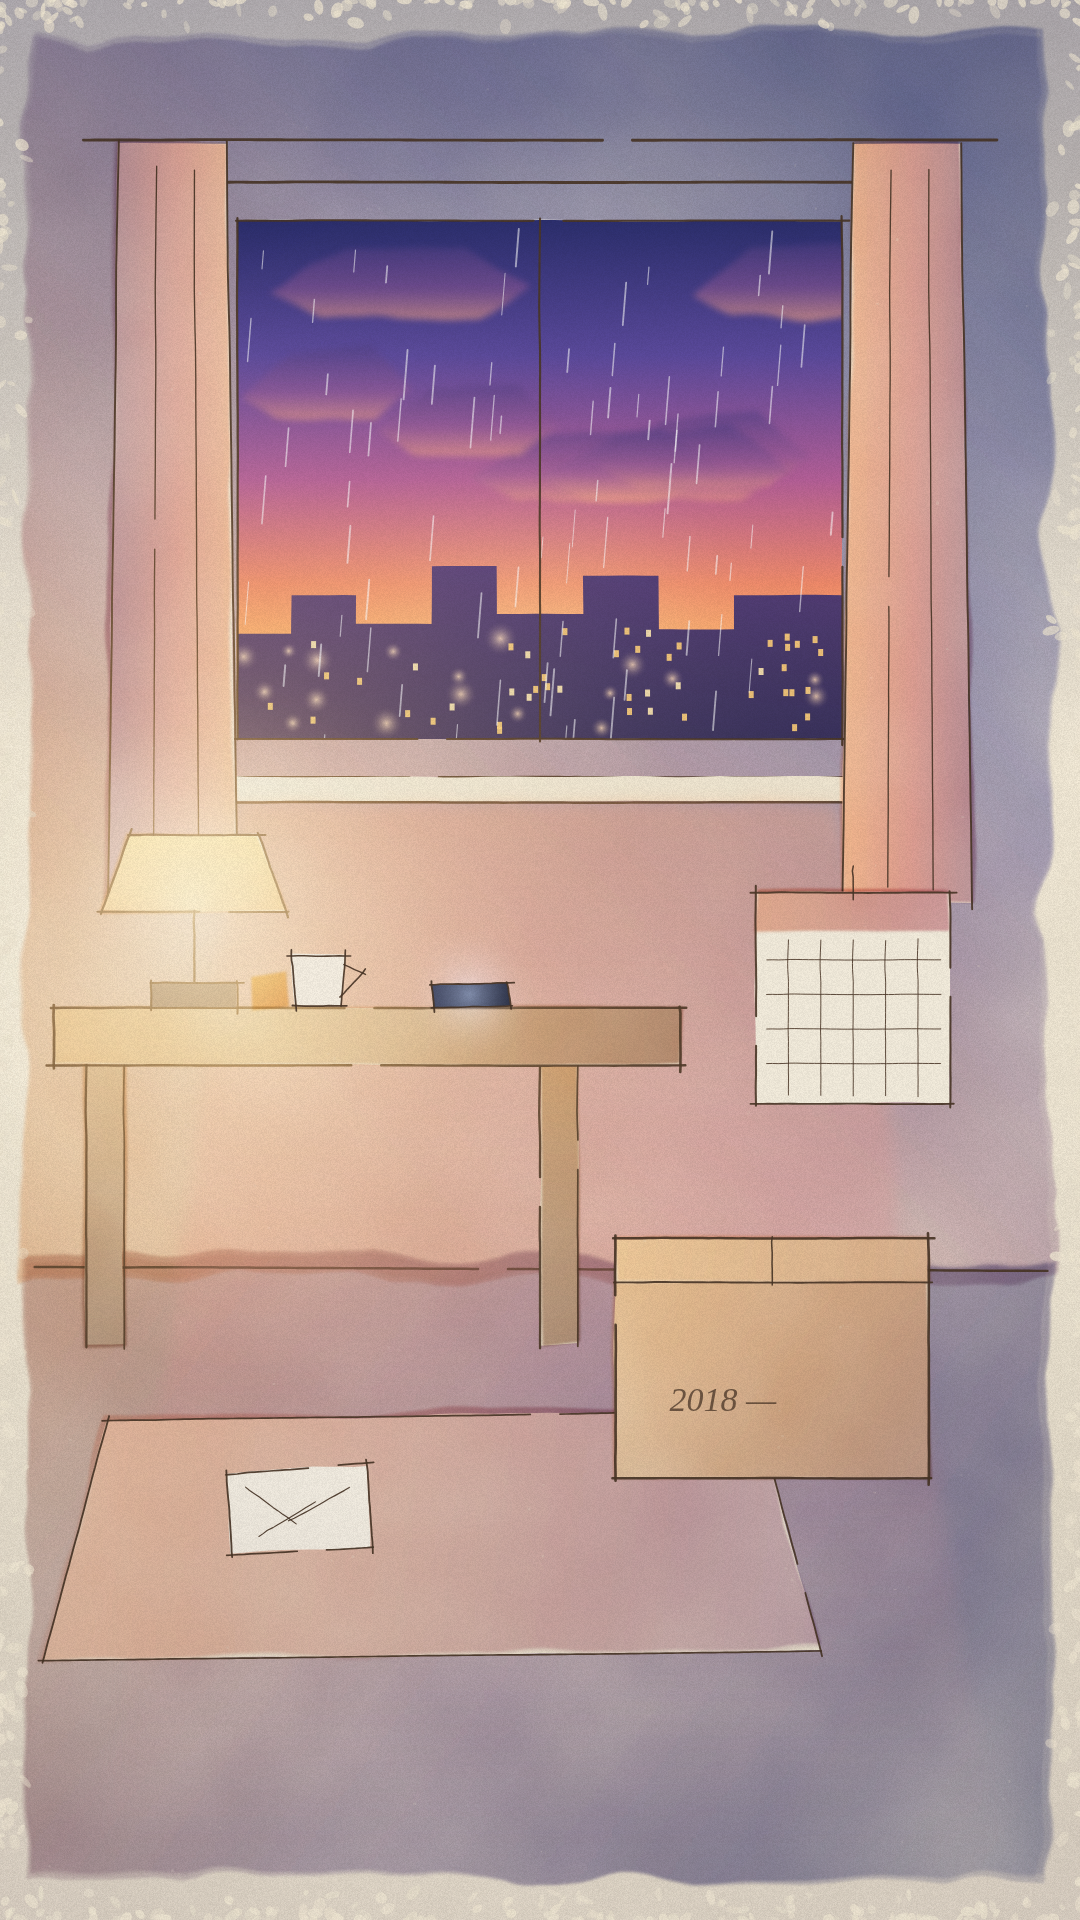
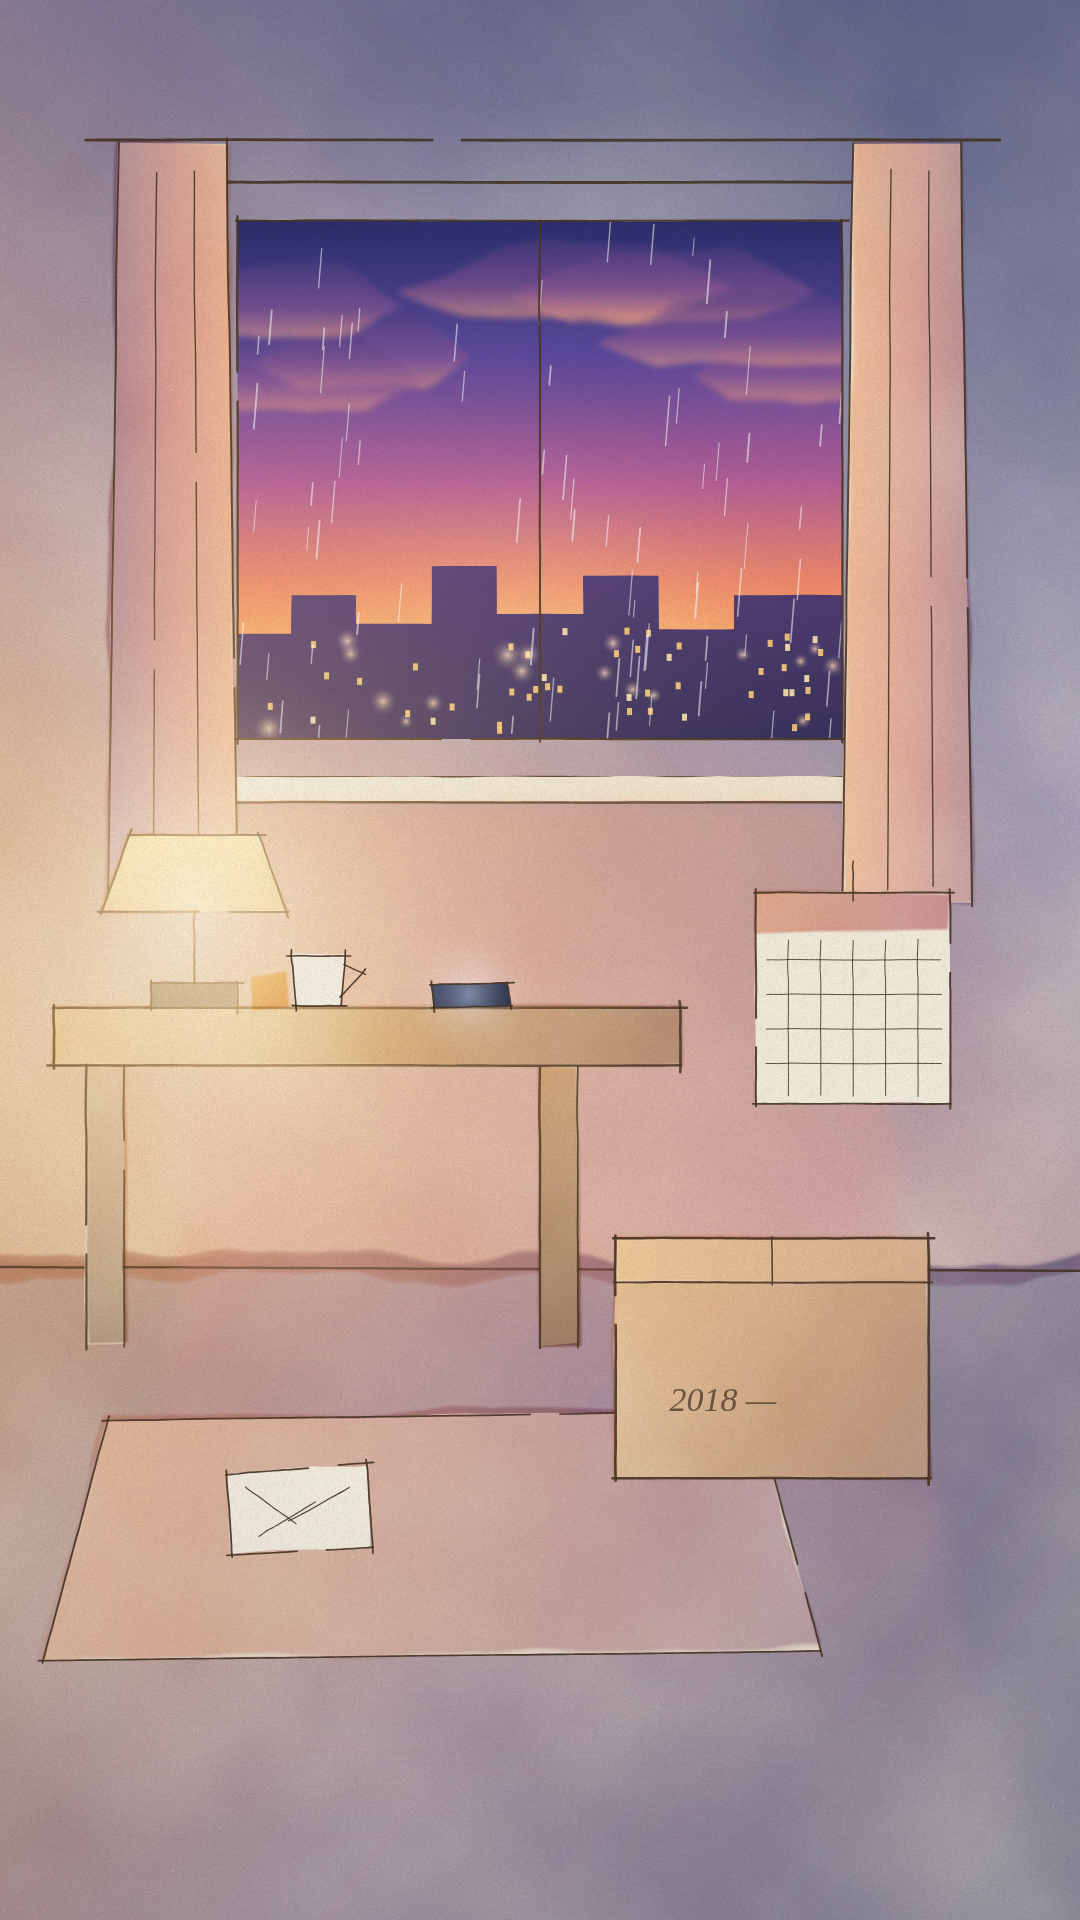
Full-bleed portrait paintings; draw the friends as slender girls
Washes now reach every edge of the 9:16 frame (no frayed paper border).
Yuri, Yunji and Hyejin are redrawn as slender college girls with small
oval faces, smiling eyes, blush, distinct hairstyles (long, bob,
ponytail) and pastel tops. Character notes added to ART_DIRECTION.md.

Claude-Session: https://claude.ai/code/session_01QJp63bhFZm94244kzyjmou

diff --git a/dear-me/ArtSource/paint-cafe.html b/dear-me/ArtSource/paint-cafe.html
@@ -9,10 +9,10 @@ R = rng(2018);
 paper();
 
 // ---- wall: warm cream to peach; wood floor
-wash([[0.03,0.02],[0.97,0.02],[0.97,0.70],[0.03,0.70]], linear(0.1,0.1,0.9,0.7,[[0,'#ffdcaa'],[0.5,'#f6c7a0'],[1,'#e2ad98']]), {alpha:.72, rough:20, layers:3, edge:.1});
-wash([[0.03,0.69],[0.97,0.69],[0.97,0.98],[0.03,0.98]], linear(0.2,0.7,0.8,0.98,[[0,'#dc9c62'],[0.6,'#b8774f'],[1,'#8f5d4a']]), {alpha:.75, rough:14, layers:3, edge:.12});
-for (let i=0;i<5;i++) ink([[0.03,0.735+i*0.05],[0.97,0.737+i*0.05]],{w:1,gap:true,overshoot:2});
-ink([[0.035,0.692],[0.965,0.694]],{w:2.6});
+wash([[-0.03,-0.02],[1.03,-0.02],[1.03,0.70],[-0.03,0.70]], linear(0.1,0.1,0.9,0.7,[[0,'#ffdcaa'],[0.5,'#f6c7a0'],[1,'#e2ad98']]), {alpha:.72, rough:20, layers:3, edge:.1});
+wash([[-0.03,0.69],[1.03,0.69],[1.03,1.03],[-0.03,1.03]], linear(0.2,0.7,0.8,0.98,[[0,'#dc9c62'],[0.6,'#b8774f'],[1,'#8f5d4a']]), {alpha:.75, rough:14, layers:3, edge:.12});
+for (let i=0;i<5;i++) ink([[-0.01,0.735+i*0.05],[1.01,0.737+i*0.05]],{w:1,gap:true,overshoot:2});
+ink([[-0.01,0.692],[1.01,0.694]],{w:2.6,gap:false});
 
 // ---- big window across the top: the richest thing in the frame
 const wx0=0.12, wx1=0.88, wy0=0.075, wy1=0.36;
@@ -41,26 +41,67 @@ for (const x of [0.30,0.70]) { ink([[x,0.36],[x,0.40]],{w:1.6,gap:false});
   reserve(sh,'#fbf2de'); wash(sh, linear(x,0.4,x,0.43,[[0,'#f0b866'],[1,'#d98a4a']]),{alpha:.75,rough:2}); ink(sh,{w:2,close:true});
   glow(x,0.435,420,'#ffc070',.55,'screen'); glow(x,0.425,130,'#fff0c8',.6,'screen'); }
 
-// ---- three friends at the table (faces left blank, urban-sketch style)
-function person(x, top, body, hair, lit){
-  const headR=0.045, hy=top+0.026, sh=0.11;
-  const torso=[[x-0.115,0.63],[x-0.105,top+0.085]].concat(ellipsePts(x,top+0.085,0.105,0.03,18,Math.PI,Math.PI*2)).concat([[x+0.115,0.63]]);
-  reserve(torso); wash(torso, linear(x-0.1,top+0.06,x+0.1,0.63,[[0,lit],[1,body]]),{alpha:.85,rough:2}); ink(torso,{w:2,overshoot:2});
-  ink([[x-0.022,top+0.058],[x,top+0.07],[x+0.022,top+0.058]],{w:1.4,gap:false,overshoot:1});
-  const head=ellipsePts(x,hy,headR);
-  reserve(head,'#f6e2cc'); wash(head, radial(x-0.012,hy-0.008,2,headR*W*1.6,[[0,'#fbe0c6'],[1,'#e8a98a']]),{alpha:.75,rough:1,off:0});
-  wash(ellipsePts(x,hy-0.007,headR*1.12,headR*1.0*W/H,24,Math.PI*0.95,Math.PI*2.05), hair,{alpha:.92,rough:2,off:0});
-  ink(head,{w:1.6,overshoot:2,gap:true});
+// ---- three friends at the table: slender college girls, faces left blank (urban-sketch), soft blush
+function girl(x, top, o){
+  const hrx=0.034, hry=hrx*W/H*1.18, hy=top+hry;           // small oval face
+  const sy=hy+hry+0.014;                                    // shoulder line
+  const hairFill = linear(x, top-0.01, x, top+0.17, [[0,o.hairLight],[0.5,o.hair],[1,o.hairDark]]);
+  // long hair falls behind the shoulders
+  if (o.style==='long' || o.style==='pony') {
+    const len = o.style==='long' ? 0.115 : 0.0;
+    if (len > 0) paint([[x-hrx*1.25,hy-hry*0.2],[x+hrx*1.25,hy-hry*0.2],[x+hrx*1.45,sy+len],[x+hrx*0.5,sy+len+0.008],[x-hrx*0.5,sy+len+0.008],[x-hrx*1.45,sy+len]], hairFill, {rough:3, blur:.8});
+  }
+  if (o.style==='pony') {   // ponytail swinging to one side
+    paint([[x+hrx*0.7,hy-hry*0.6],[x+hrx*1.6,hy-hry*0.2],[x+hrx*1.9,hy+hry*1.6],[x+hrx*1.5,sy+0.05],[x+hrx*1.15,hy+hry*0.9]], hairFill, {rough:3, blur:.8});
+  }
+  // slim torso: narrow sloped shoulders, soft top
+  const torso=[[x-0.056,0.632],[x-0.053,sy+0.03]].concat(ellipsePts(x,sy+0.03,0.053,0.028,20,Math.PI,Math.PI*2)).concat([[x+0.056,0.632]]);
+  reserve(torso); wash(torso, linear(x-0.06,sy,x+0.06,0.63,[[0,o.lit],[1,o.top]]),{alpha:.82,rough:2}); ink(torso,{w:1.8,overshoot:2});
+  if (o.collar) ink([[x-0.018,sy+0.004],[x,sy+0.022],[x+0.018,sy+0.004]],{w:1.3,gap:false,overshoot:1});
+  if (o.cardigan) { ink([[x-0.012,sy+0.01],[x-0.016,0.63]],{w:1.3}); ink([[x+0.012,sy+0.01],[x+0.016,0.63]],{w:1.3}); }
+  // thin neck
+  const neck=[[x-0.009,hy+hry*0.75],[x+0.009,hy+hry*0.75],[x+0.01,sy+0.004],[x-0.01,sy+0.004]];
+  reserve(neck,'#f6e2cc'); wash(neck, linear(x,hy,x,sy,[[0,'#e9b89c'],[1,'#f3d2b8']]),{alpha:.7,rough:1,off:0});
+  // face
+  const head=ellipsePts(x,hy,hrx,hry,30);
+  reserve(head,'#f8e6d2'); wash(head, radial(x-0.01,hy-0.006,2,hrx*W*1.7,[[0,'#fde6cf'],[1,'#efbda0']]),{alpha:.72,rough:1,off:0});
+  ink(head,{w:1.4,overshoot:2,gap:true});
+  // hair on top: crown, side locks, bangs
+  const crown=ellipsePts(x,hy-hry*0.15,hrx*1.18,hry*1.02,26,Math.PI*0.92,Math.PI*2.08);
+  paint(crown, hairFill, {rough:2, blur:.6});
+  if (o.style==='bob') {
+    paint([[x-hrx*1.2,hy-hry*0.3],[x-hrx*0.85,hy-hry*0.3],[x-hrx*0.8,hy+hry*1.05],[x-hrx*1.25,hy+hry*1.0]], hairFill,{rough:2,blur:.6});
+    paint([[x+hrx*1.2,hy-hry*0.3],[x+hrx*0.85,hy-hry*0.3],[x+hrx*0.8,hy+hry*1.05],[x+hrx*1.25,hy+hry*1.0]], hairFill,{rough:2,blur:.6});
+  } else {
+    paint([[x-hrx*1.2,hy-hry*0.3],[x-hrx*0.82,hy-hry*0.3],[x-hrx*0.9,hy+hry*1.3],[x-hrx*1.3,sy+0.02]], hairFill,{rough:2,blur:.6});
+    if (o.style==='long') paint([[x+hrx*1.2,hy-hry*0.3],[x+hrx*0.82,hy-hry*0.3],[x+hrx*0.9,hy+hry*1.3],[x+hrx*1.3,sy+0.02]], hairFill,{rough:2,blur:.6});
+  }
+  paint([[x-hrx*0.95,hy-hry*0.55],[x+hrx*0.95,hy-hry*0.55],[x+hrx*0.75,hy-hry*0.05],[x+hrx*0.2,hy-hry*0.18],[x-hrx*0.3,hy-hry*0.02],[x-hrx*0.8,hy-hry*0.1]], hairFill,{rough:1.5,blur:.5});
+  if (o.style==='pony') { const t=[[x+hrx*0.7,hy-hry*0.75],[x+hrx*1.0,hy-hry*0.9],[x+hrx*1.05,hy-hry*0.55]]; paint(t,o.ribbon,{rough:1,blur:.3}); }
+  glow(x-hrx*0.3,hy-hry*0.8,16,'#fff2dc',.35,'screen');   // shine on the hair
+  ink(ellipsePts(x,hy-hry*0.15,hrx*1.18,hry*1.02,20,Math.PI*1.0,Math.PI*2.0),{w:1.4,overshoot:2});
+  // gentle face: smiling closed eyes, small mouth, soft blush on the cheeks
+  for (const side of [-1,1]) {
+    ink(ellipsePts(x+side*hrx*0.42, hy+hry*0.3, hrx*0.2, hry*0.13, 8, Math.PI*1.1, Math.PI*1.9), {w:1.7, gap:false, overshoot:0, color:'#4a3028'});
+    glow(x+side*hrx*0.55, hy+hry*0.6, 9, '#ff8f8f', .28, 'source-over');
+  }
+  ink(ellipsePts(x, hy+hry*0.66, hrx*0.12, hry*0.08, 8, Math.PI*0.15, Math.PI*0.85), {w:1.4, gap:false, overshoot:0, color:'#a0504a'});
+  // slender arms resting toward the table
+  for (const side of [-1,1]) {
+    const ax=x+side*0.049, arm=[[ax,sy+0.03],[ax+side*0.01,sy+0.035],[x+side*0.034,0.615],[x+side*0.024,0.618]];
+    reserve(arm); wash(arm, linear(ax,sy,ax,0.62,[[0,o.lit],[1,o.top]]),{alpha:.8,rough:1,off:0}); ink(arm,{w:1.3,close:true,overshoot:1});
+    const hand=ellipsePts(x+side*0.029,0.618,0.0095,0.0065,14); reserve(hand,'#f8e2cc'); ink(hand,{w:1.1,overshoot:1});
+  }
 }
-person(0.27, 0.48, '#8a5a3c', '#3b2a22', '#e0a070');   // Yuri
-person(0.50, 0.465, '#4f6b5a', '#2a2420', '#9cc6a0');  // Yunji
-person(0.73, 0.485, '#6a5a7e', '#4a3326', '#c6a6e0');  // Hyejin
-const cam=[[0.70,0.575],[0.76,0.575],[0.76,0.595],[0.70,0.595]]; reserve(cam,'#3a3a44'); ink(cam,{w:1.6,close:true}); glow(0.73,0.585,30,'#fff3d0',.6,'screen');
+girl(0.27, 0.455, {style:'long', hair:'#5a3a2c', hairLight:'#8a5a42', hairDark:'#3a2420', top:'#e8907a', lit:'#ffc0a0', cardigan:true});   // Yuri
+girl(0.50, 0.445, {style:'bob',  hair:'#2e2626', hairLight:'#5a4a48', hairDark:'#1e1818', top:'#8fbf9a', lit:'#d4efcf', collar:true});    // Yunji
+girl(0.73, 0.46,  {style:'pony', hair:'#7a4a32', hairLight:'#b07a54', hairDark:'#4a2c22', top:'#b49ad6', lit:'#e6d4f6', collar:true, ribbon:'#f2a0b4'}); // Hyejin
+const cam=[[0.705,0.598],[0.755,0.598],[0.755,0.616],[0.705,0.616]]; reserve(cam,'#3a3a44'); ink(cam,{w:1.6,close:true}); glow(0.73,0.607,26,'#fff3d0',.6,'screen');
 // table, cups, the notice
 const tb=[[0.08,0.625],[0.92,0.625],[0.92,0.645],[0.08,0.645]];
 reserve(tb); wash(tb, linear(0.08,0.63,0.92,0.64,[[0,'#f0b06a'],[1,'#b5784e']]),{alpha:.85,rough:2}); ink(tb,{w:2.6,close:true});
 ink([[0.48,0.645],[0.48,0.76]],{w:2.6}); ink([[0.52,0.645],[0.52,0.76]],{w:1.8}); ink([[0.40,0.76],[0.60,0.76]],{w:2.2});
-for (const x of [0.22,0.45,0.66]){ const c=[[x,0.60],[x+0.055,0.60],[x+0.05,0.625],[x+0.005,0.625]]; reserve(c,'#fffaf0'); ink([[x,0.60],[x+0.005,0.625],[x+0.05,0.625],[x+0.055,0.60]],{w:1.6}); ink([[x,0.601],[x+0.055,0.601]],{w:1.4}); }
+for (const x of [0.215,0.445,0.60]){ const c=[[x,0.60],[x+0.055,0.60],[x+0.05,0.625],[x+0.005,0.625]]; reserve(c,'#fffaf0'); ink([[x,0.60],[x+0.005,0.625],[x+0.05,0.625],[x+0.055,0.60]],{w:1.6}); ink([[x,0.601],[x+0.055,0.601]],{w:1.4}); }
 const nt=[[0.53,0.612],[0.63,0.609],[0.632,0.623],[0.532,0.625]]; reserve(nt,'#fffaf0'); ink(nt,{w:1.3,close:true});
 // plant
 const pot=[[0.82,0.62],[0.93,0.62],[0.915,0.70],[0.835,0.70]];
@@ -72,9 +113,6 @@ for (let i=0;i<14;i++){ const a=rnd(-2.7,-0.5), l=rnd(.06,.13), cx=0.875, cy=0.6
 glow(0.5,0.25,900,'#ffcf8a',.3,'screen');
 const vg=g.createRadialGradient(W*.5,H*.4,H*.3,W*.5,H*.5,H*.75); vg.addColorStop(0,'rgba(0,0,0,0)'); vg.addColorStop(1,'rgba(150,90,80,.16)');
 g.save(); g.globalCompositeOperation='multiply'; g.fillStyle=vg; g.fillRect(0,0,W,H); g.restore();
-g.save(); for (let i=0;i<520;i++){ const side=Math.floor(rnd(0,4)); let x,y; const d=Math.pow(R(),3)*30;
-  if(side===0){x=rnd(0,W);y=d;} else if(side===1){x=rnd(0,W);y=H-d;} else if(side===2){x=d;y=rnd(0,H);} else {x=W-d;y=rnd(0,H);}
-  g.fillStyle='#efe6d2'; g.globalAlpha=rnd(.35,.8); g.beginPath(); g.ellipse(x,y,rnd(3,9),rnd(2,6),rnd(0,3),0,7); g.fill(); } g.restore();
 const tooth=g.getImageData(0,0,W,H), td=tooth.data; for (let i=0;i<td.length;i+=4){ const k=0.95+0.05*R(); td[i]*=k; td[i+1]*=k; td[i+2]*=k; } g.putImageData(tooth,0,0);
 document.title='done';
 </script>

diff --git a/dear-me/ArtSource/paint-room.html b/dear-me/ArtSource/paint-room.html
@@ -9,11 +9,11 @@ init(1080, 1920);
 paper();
 
 // ---- wall: warm by the lamp (left), violet-blue toward the window light; floor below
-wash([[0.03,0.02],[0.97,0.02],[0.97,0.665],[0.03,0.665]], linear(0.05,0.6,0.95,0.1,[[0,'#e9a272'],[0.35,'#c08fa6'],[0.7,'#8584c4'],[1,'#5f6cb8']]), {alpha:.8, rough:22, layers:3, edge:.1});
+wash([[-0.03,-0.02],[1.03,-0.02],[1.03,0.665],[-0.03,0.665]], linear(0.05,0.6,0.95,0.1,[[0,'#e9a272'],[0.35,'#c08fa6'],[0.7,'#8584c4'],[1,'#5f6cb8']]), {alpha:.8, rough:22, layers:3, edge:.1});
 { const tg=g.createLinearGradient(0,0,0,H*.4); tg.addColorStop(0,'rgba(70,80,150,.3)'); tg.addColorStop(1,'rgba(70,80,150,0)');
   g.save(); g.globalCompositeOperation='multiply'; g.fillStyle=tg; g.fillRect(0,0,W,H*.4); g.restore(); }
-wash([[0.03,0.655],[0.97,0.655],[0.97,0.98],[0.03,0.98]], linear(0.1,0.66,0.9,0.98,[[0,'#b67e76'],[0.5,'#7d6ca2'],[1,'#4f5694']]), {alpha:.75, rough:16, layers:3, edge:.1});
-ink([[0.035,0.66],[0.965,0.662]],{w:2.6});
+wash([[-0.03,0.655],[1.03,0.655],[1.03,1.03],[-0.03,1.03]], linear(0.1,0.66,0.9,0.98,[[0,'#b67e76'],[0.5,'#7d6ca2'],[1,'#4f5694']]), {alpha:.75, rough:16, layers:3, edge:.1});
+ink([[-0.01,0.66],[1.01,0.662]],{w:2.6,gap:false});
 
 // ---- window: the richest color in the scene
 const gx0=0.22, gx1=0.78, gy0=0.115, gy1=0.385;
@@ -87,9 +87,6 @@ g.save(); g.font='italic 34px Georgia'; g.fillStyle=SEPIA; g.globalAlpha=.75; g.
 // ---- light, vignette, page edge, tooth
 const vg=g.createRadialGradient(W*.5,H*.42,H*.3,W*.5,H*.5,H*.75); vg.addColorStop(0,'rgba(0,0,0,0)'); vg.addColorStop(1,'rgba(90,60,120,.2)');
 g.save(); g.globalCompositeOperation='multiply'; g.fillStyle=vg; g.fillRect(0,0,W,H); g.restore();
-g.save(); for (let i=0;i<520;i++){ const side=Math.floor(rnd(0,4)); let x,y; const d=Math.pow(R(),3)*30;
-  if(side===0){x=rnd(0,W);y=d;} else if(side===1){x=rnd(0,W);y=H-d;} else if(side===2){x=d;y=rnd(0,H);} else {x=W-d;y=rnd(0,H);}
-  g.fillStyle='#efe6d2'; g.globalAlpha=rnd(.35,.8); g.beginPath(); g.ellipse(x,y,rnd(3,9),rnd(2,6),rnd(0,3),0,7); g.fill(); } g.restore();
 const tooth=g.getImageData(0,0,W,H), td=tooth.data; for (let i=0;i<td.length;i+=4){ const k=0.94+0.06*R(); td[i]*=k; td[i+1]*=k; td[i+2]*=k; } g.putImageData(tooth,0,0);
 document.title='done';
 </script>

diff --git a/dear-me/ArtSource/ART_DIRECTION.md b/dear-me/ArtSource/ART_DIRECTION.md
@@ -11,9 +11,17 @@ Keep these rules for every scene, sprite and UI illustration.
    warm color onto nearby surfaces. Even night and rain scenes keep a warm light somewhere.
 4. **Style mix.** Urban Sketch line (wobbly sepia fineliner, overshoot, gaps) + Watercolor wash
    (cream cold-press paper, uneven pigment, dried edges, granulation) + Paper Lantern glow at night.
+   Paintings are full-bleed: color reaches every edge of the 9:16 frame (no paper border).
 5. **Portrait 9:16 (1080×1920).** Keep important things inside x 0.1–0.9 (tall phones crop the
    sides) and above y 0.75 (the dialogue panel covers the bottom).
 6. Day scenes are bright and safe; night scenes are reflective but never murky.
 
 Tools: `painter-lib.js` (`linear`, `radial`, `wash`, `paint`, `glow`, `ink`, `reserve`).
 Render with `node ArtSource/render.js`.
+
+## Characters
+
+Yuri, Yunji and Hyejin are slender, delicate college girls (여리여리): small oval faces with
+smiling closed eyes, a small mouth and soft cheek blush; narrow sloped shoulders and thin arms;
+pastel tops. Yuri — long straight brown hair, coral cardigan. Yunji — black bob, sage blouse.
+Hyejin — chestnut ponytail with a pink ribbon, lavender top, always holding her camera.
